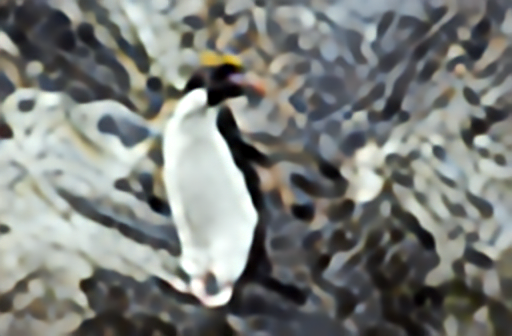
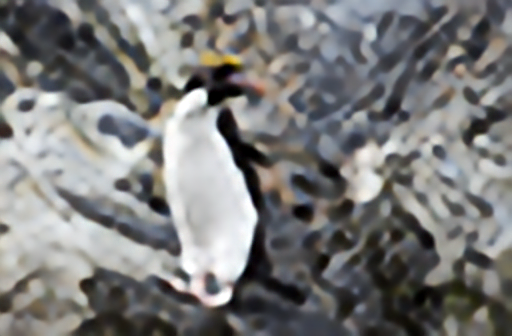
...

diff --git a/train.py b/train.py
@@ -249,7 +249,7 @@ if __name__ == "__main__":
     args.normalization = 2
     args.patch_size = 192
     args.batch_size = 16
-    args.continue_train = False
+    args.continue_train = True
 
     # EDSR
     # args.model = 'EDSR'
@@ -294,21 +294,21 @@ if __name__ == "__main__":
 
     # ddbpn_mr
     args.model = 'DBPN_MR'
-    args.batch_size = 5
-    args.n_feats = 128
-    args.nr = 32
-    args.n_depths = 6
+    args.batch_size = 2
+    args.n_feats = 256
+    args.nr = 64
+    args.n_depths = 7
     args.n_iters = 3
     args.global_res = True
 
     # HAN
-    args.model = 'HAN'
-    args.act = 'relu'
-    args.n_rg = 10
-    args.n_rcab = 20
-    args.batch_size = 8
-    args.n_feats = 128
-    args.global_res = True
+    # args.model = 'HAN'
+    # args.act = 'relu'
+    # args.n_rg = 10
+    # args.n_rcab = 20
+    # args.batch_size = 8
+    # args.n_feats = 128
+    # args.global_res = True
 
 
     with torch.autograd.detect_anomaly():

diff --git a/test.py b/test.py
@@ -110,7 +110,7 @@ def test(args):
 if __name__ == "__main__":
     from option import args
 
-    args.test_file = 'images/0829x8.png'
+    args.test_file = 'images/0845x8.png'
     args.scale = 8
     args.normalization = 2
 
@@ -153,12 +153,12 @@ if __name__ == "__main__":
     args.n_feats = 128
 
     # ddbpn_mr
-    # args.model = 'DBPN_MR'
-    # args.batch_size = 2
-    # args.n_feats = 128
-    # args.nr = 32
-    # args.n_depths = 6
-    # args.n_iters = 3
-    # args.global_res = True
+    args.model = 'DBPN_MR'
+    args.batch_size = 2
+    args.n_feats = 256
+    args.nr = 64
+    args.n_depths = 7
+    args.n_iters = 3
+    args.global_res = True
 
     test(args)

diff --git a/README.md b/README.md
@@ -13,7 +13,7 @@
 | RDN |  <img src="logs/result/RCAN/0801x8_None_True.png" /> | <img src="logs/result/RCAN/0829x8_None_True.png" /> | 
 | AFN |  <img src="logs/result/AFN/0801x8_leak_relu_128_3.png" /> | <img src="logs/result/AFN/0829x8_leak_relu_128_3.png" /> | 
 | DDBPN |  <img src="logs/result/DDBPN/0801x8_128_32_6.png" /> | <img src="logs/result/DDBPN/0829x8_128_32_6.png" /> | 
-| DBPN-RES-MR |  <img src="logs/result/DBPN_MR/0801x8_128_32_6_3_True.png" /> | <img src="logs/result/DBPN_MR/0829x8_128_32_6_3_True.png" /> | 
+| DBPN-RES-MR |  <img src="logs/result/DBPN_MR/0801x8_256_64_7_3_True.png" /> | <img src="logs/result/DBPN_MR/0829x8_256_64_7_3_True.png" /> | 
 | HAN |  <img src="logs/result/HAN/0801x8_relu_10_20_128.png" /> | <img src="logs/result/HAN/0829x8_relu_10_20_128.png" /> | 
 
 ## Usage
